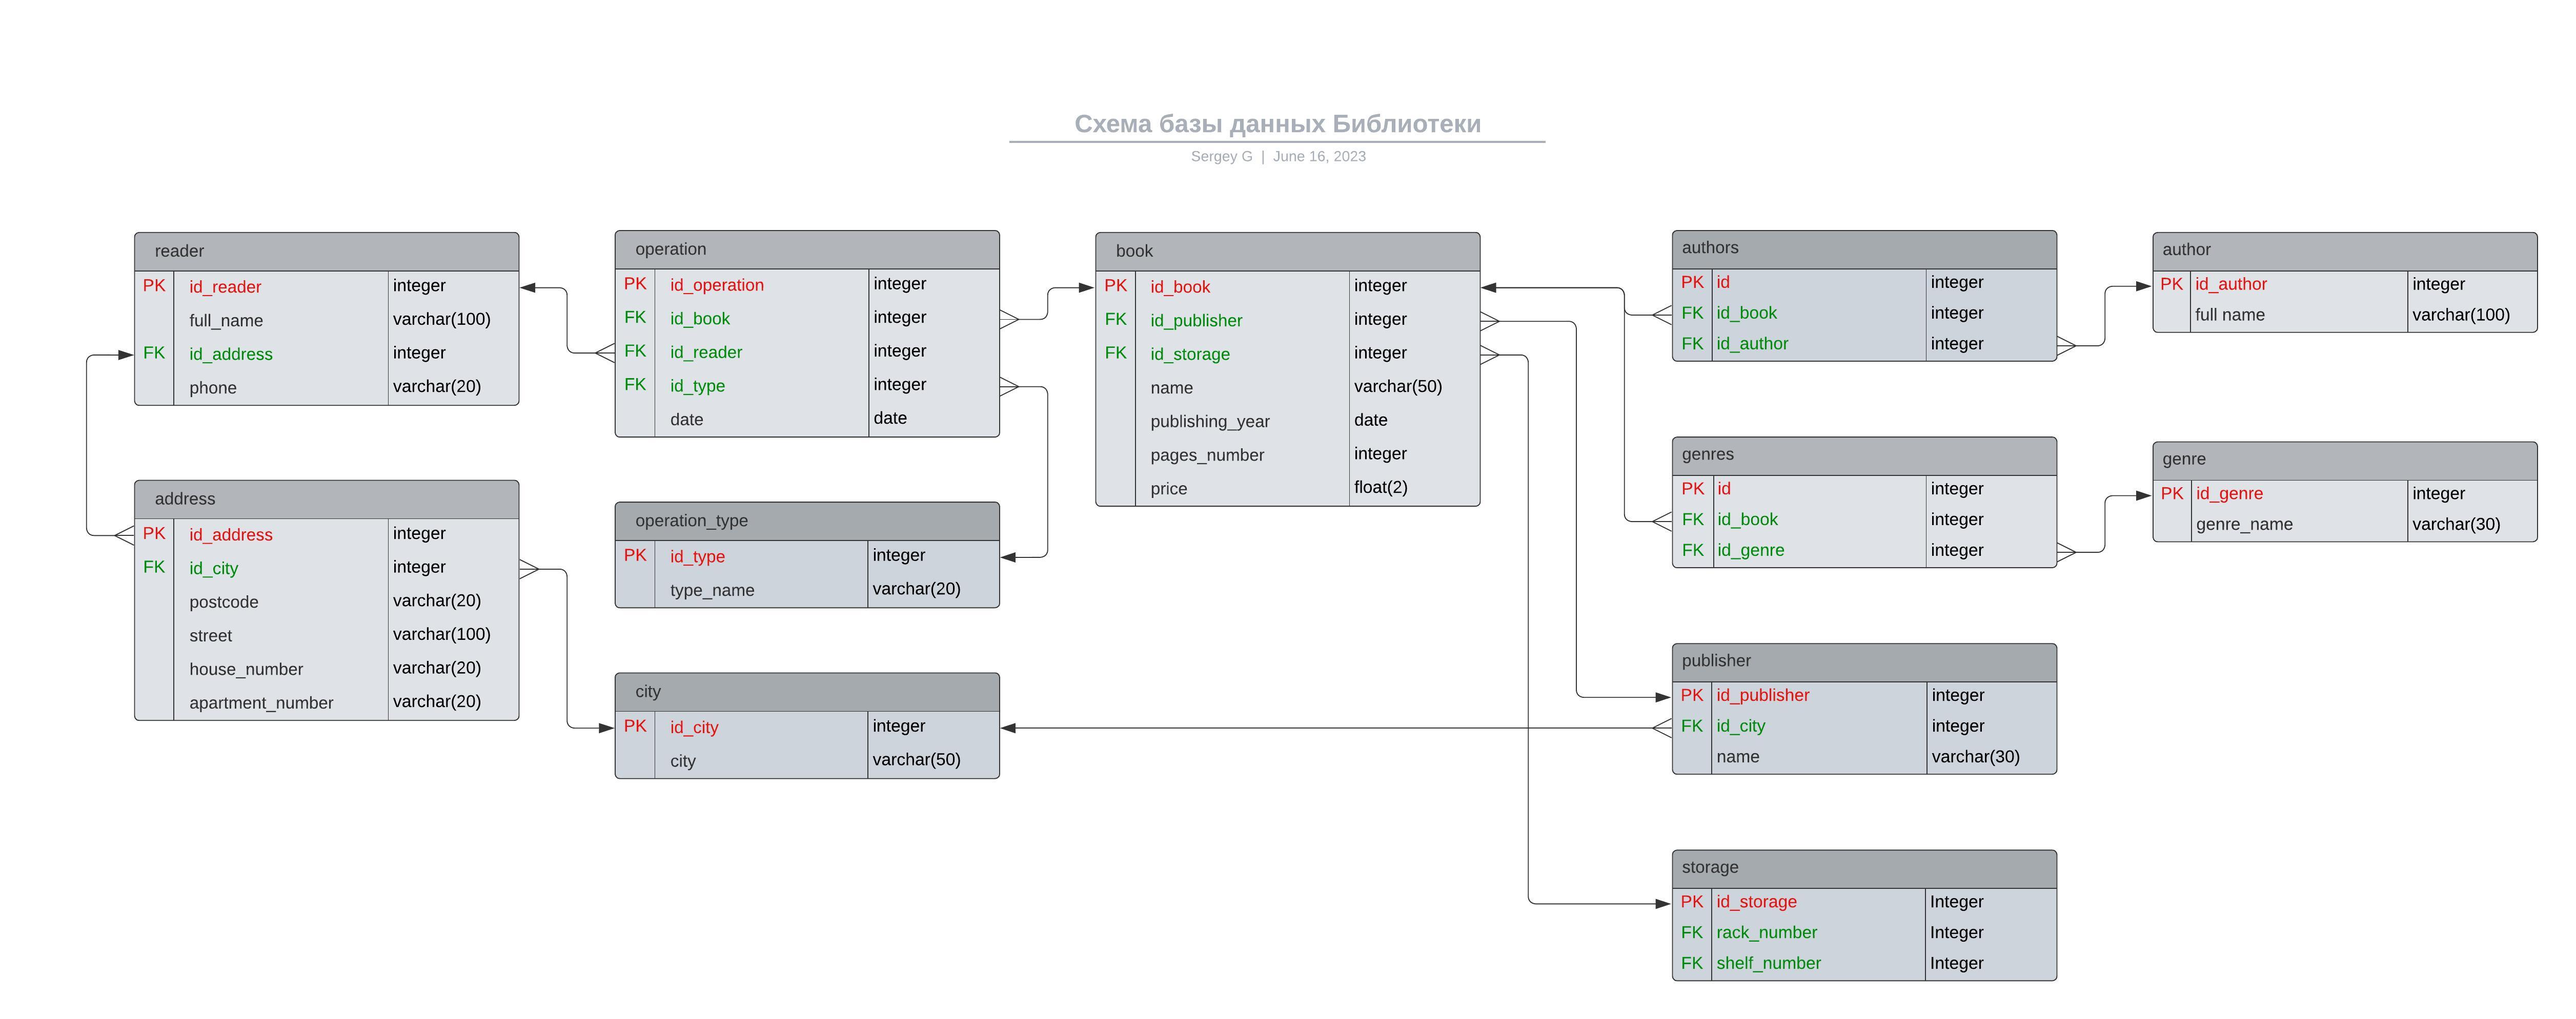
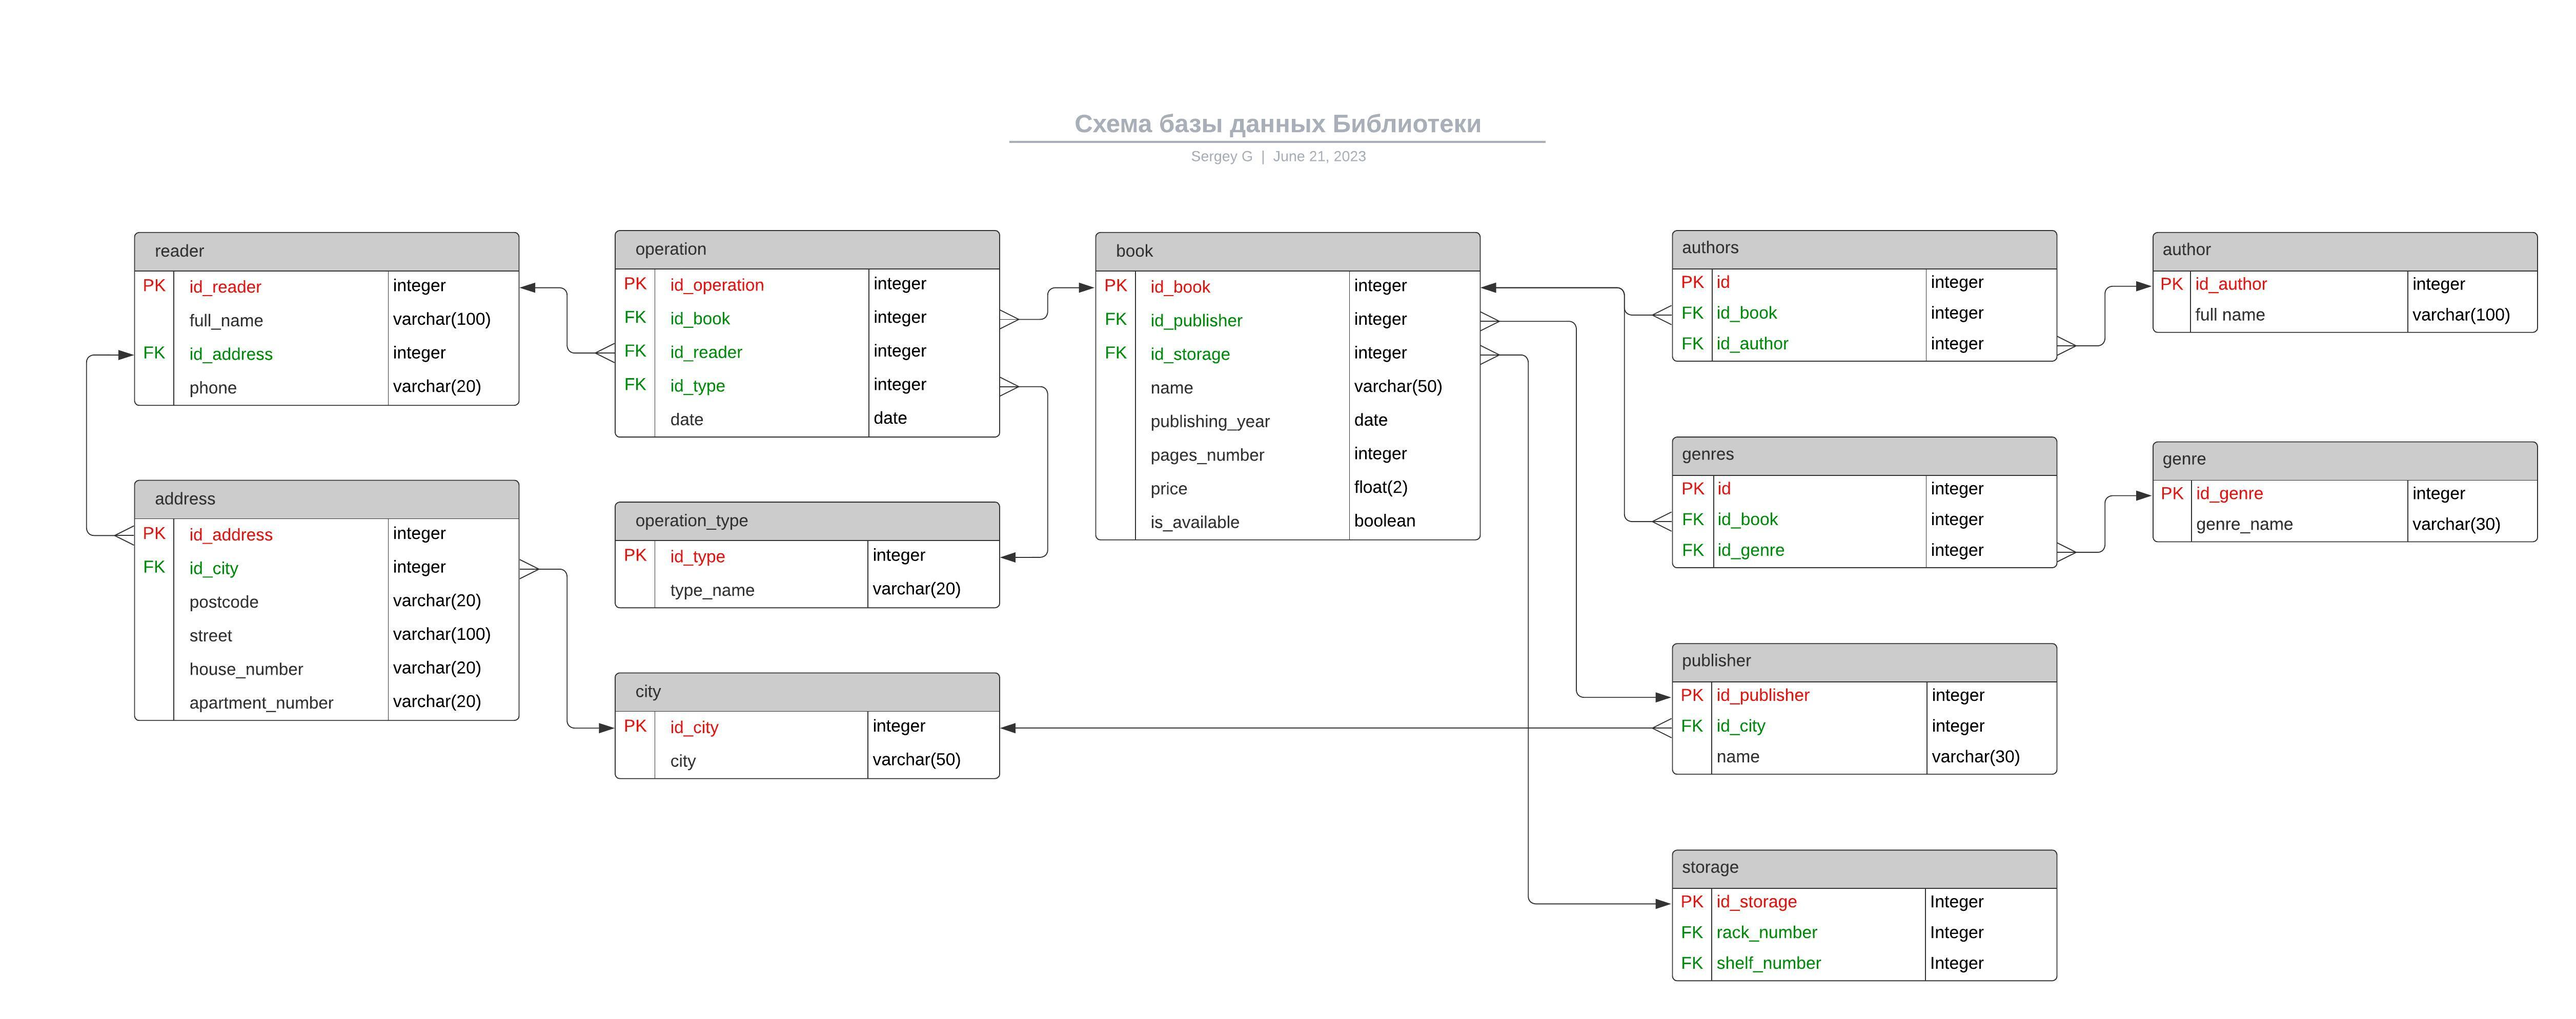
решение

diff --git a/README.md b/README.md
@@ -2,159 +2,64 @@
 
 Запуск: `docker-compose up`
 
-Запросы к БД:  
-1) Определить, сколько книг прочитал каждый читатель в текущем году. Вывести рейтинг читателей по убыванию:  
-```sql
-SELECT operation.id_reader, reader.full_name, count(operation.id_reader) AS rate FROM operation 
-INNER JOIN reader ON operation.id_reader = reader.id_reader
-WHERE operation.id_type = 2 
-AND operation.date > '2023-01-01' 
-AND operation.id_book IN (SELECT id_book FROM operation 
-		WHERE id_type = 1 
-		AND operation.date > '2023-01-01') 
-GROUP BY operation.id_reader, reader.full_name
-ORDER BY rate DESC
-```  
-2) Определить, сколько книг у читателей на руках на текущую дату:  
-```sql
-SELECT count(id_book) AS not_returned_books FROM (
-	SELECT id_book, id_reader FROM operation
-		WHERE id_type = 1
-	EXCEPT 
-	SELECT id_book, id_reader FROM operation
-		WHERE id_type = 2
-	GROUP BY id_book, id_reader
-) AS not_returned_books
-```  
-3) Определить читателей, у которых на руках определенная книга:  
-```sql
-SELECT  not_returned_books.id_reader, reader.full_name, not_returned_books.id_book, book.name FROM (
-	SELECT id_book, id_reader from operation
-		WHERE id_type = 1
-	EXCEPT 
-	SELECT id_book, id_reader FROM operation
-		WHERE id_type = 2
-	GROUP BY id_book, id_reader
-) AS not_returned_books
-INNER JOIN reader ON not_returned_books.id_reader = reader.id_reader
-INNER JOIN book  ON not_returned_books.id_book = book.id_book
-WHERE not_returned_books.id_book = 4
-``` 
-4) Определите, какие книги на руках читателей:  
-```sql
-SELECT book.name FROM (
-	SELECT id_book, id_reader FROM public.operation
-	WHERE id_type = 1
-	EXCEPT 
-	SELECT id_book, id_reader FROM public.operation
-	WHERE id_type = 2
-) AS not_returned_books
-INNER JOIN book on not_returned_books.id_book = book.id_book
-```  
-5) Вывести количество должников на текущую дату:  
-```sql
-SELECT count(id_book) AS not_returned_books FROM (
-	SELECT id_book, id_reader FROM public.operation
-	WHERE id_type = 1
-	EXCEPT 
-	SELECT id_book, id_reader FROM public.operation
-	WHERE id_type = 2
-) AS not_returned_books
-```  
-6) Книги какого издательства были самыми востребованными у читателей? Отсортируйте издательства по убыванию востребованности книг:
-```sql
-SELECT count(operation.id_book) AS rate, p.name, book.id_publisher FROM operation
-INNER JOIN book ON operation.id_book = book.id_book
-INNER JOIN public.publisher p ON p.id_publisher = book.id_publisher 
-WHERE id_type = 1 
-GROUP BY   p.name, book.id_publisher
-ORDER BY rate DESC 
-```  
-7) Определить самого издаваемого автора  
-```sql
-SELECT rate, id_author, full_name FROM (
-	SELECT count(authors.id_author) AS rate, authors.id_author, author.full_name FROM authors
-	INNER JOIN author ON author.id_author = authors.id_author
-	GROUP BY authors.id_author, author.full_name) ar
-WHERE rate = (SELECT max(rate) FROM (
-	SELECT count(id_author) AS rate, id_author FROM authors
-	GROUP BY id_author) ar2 )
-	
-	--Или можно с limit 1, учитывая что мы сортируем по возрастанию,
-	--самый издаваемый автор у нас будет на первой строке:
-	
-SELECT count(authors.id_author) AS rate, author.full_name, authors.id_author from authors
-INNER JOIN author ON authors.id_author = author.id_author
-GROUP BY authors.id_author, author.full_name
-ORDER BY rate DESC 
-LIMIT 1
-```
-8) Определить среднее количество прочитанных страниц читателем за день:  
-День, за который нужно посмотреть среднее кол-во прочитанных страниц записывается в  
-`where start_read.date <= '2023-02-15' and stop_read.date >= '2023-02-15'`
-вол-во страниц выводится в столбце `avr_page_per_day`  
-Пример: ![Схема БД "Библиотека""](2.3.8.png)  
+Задача:  
 
+
+ Доработать структуру БД «Библиотека» на предмет хранения дополнительной информации о книгах, которые были утеряны. Информация о потерянных книгах должна содержать:
+книга, которая была утеряна дата потери читатель, который потерял книгу.
+
+- Напишите sql запрос, который определяет, терял ли определенный читатель книги.
+
+- При потере книг количество доступных книг фонда меняется. Напишите sql запрос на обновление соответствующей информации.
+
+- Определить сумму потерянных книг по каждому кварталу в течение года.
+
+Дополнительная информация к заданию:  
+Книга считается на руках, если не указана дата возврата книги.  
+Должником является читатель, который не возвратил книгу в течение 2-х недель.  
+Книга считается прочитанной, если она была взята и сдана.  
+
+
+Решение:  
+В сущность `book` добавим поле `is_available` с типом данных *boolean* хранящую информацию о доступности книги.
+По умолчанию, у всех книг `is_available = true`.  
+У нас есть сущность `operation`, которая хранит операции с 
+книгами, в нее будем записывать потерю книги. Для этого нам в `operation_type` необходимо добавить тип операции 'Утрачена' с `id_type = 3`. 
+Все остальные задачи решаются запросами:  
+- Напишите sql запрос, который определяет, терял ли определенный читатель книги:
 ```sql
+SELECT * FROM operation
+WHERE id_reader = 1
+AND id_type = 3
+```  
+- При потере книг количество доступных книг фонда меняется. Напишите sql запрос на обновление соответствующей информации:
+```sql
+--обновляем `is_available` на `false` у книг, которые были утеряны:
+update book set is_available = false
+where id_book in (
+		select book.id_book from book
+		inner join operation on operation.id_book = book.id_book
+		where operation.id_type = 3
+		);
+--выбираем только доступные книги
+select * from public.book
+where book.is_available = true
+```  
+-Определить сумму потерянных книг по каждому кварталу в течение года:
+```sql
+--Сумма потерь в течении текущего года, and extract(year from date) = extract(year from now()),
+--еслу убрать строку, будут выведены данные за все время, вместо extract(year from now()) можно
+--посдтавить необходимый год.  
+
 select
-	start_read.date as start_read_day,
-	stop_read.date as stop_read_day,
-	start_read.id_reader, 
-	sum(start_read.pages_number),
-	sum((start_read.pages_number) / (case (stop_read.date - start_read.date)
-		when 0 then 1
-		else (stop_read.date - start_read.date)
-	end
-	)) as avr_page_per_day
-from
-(
-select o.id_book, o.id_reader, o.id_type, book.name, book.pages_number, date(o.date) from public.operation o 
-inner join book on book.id_book = o.id_book
-where o.id_reader = 1
-and id_type = 1
-) start_read
-inner join 
-(
-select o.id_book, o.id_reader, o.id_type, book.name, book.pages_number, date(o.date) from public.operation o
-inner join book on book.id_book = o.id_book
-where o.id_reader = 1
-and id_type = 2
-) stop_read
-on start_read.id_book = stop_read.id_book
-where start_read.date <= '2023-02-15' and stop_read.date >= '2023-02-15'
-group by stop_read.date, start_read.date, start_read.id_reader, start_read.pages_number
-```
-
-9) ~~Когда читатель взял и вернул книги и кол-во страниц в книгах~~  
-```sql
-select 
-	start_read.id_book, 
-	start_read.id_reader, 
-	start_read.name, 
-	start_read.pages_number, 
-	start_read.date as start_read,
-	stop_read.date as stop_read
-from
-(
-select o.id_book, o.id_reader, o.id_type, book.name, book.pages_number, date from public.operation o 
-inner join book on book.id_book = o.id_book
-where o.id_reader = 1
-and id_type = 1
-) start_read
-inner join 
-(
-select o.id_book, o.id_reader, o.id_type, book.name, book.pages_number, date from public.operation o
-inner join book on book.id_book = o.id_book
-where o.id_reader = 1
-and id_type = 2
-) stop_read
-on start_read.id_book = stop_read.id_book
-```
-10) ~~Рейтинг книг:~~
-```sql
-SELECT count(operation.id_book) AS rate, book.name, operation.id_book  FROM operation
-INNER JOIN book ON operation.id_book = book.id_book 
-WHERE id_type = 1 GROUP BY operation.id_book, book.name ORDER BY rate ASC
+	extract(year from date) as year,
+	extract(quarter from date) as quarter,
+	sum(book.price)
+from operation
+inner join book on book.id_book = operation.id_book 
+where id_type = 3
+and extract(year from date) = extract(year from now())
+group by quarter, year
 ```
 
 Схема БД: ![Схема БД "Библиотека""](theLibrary.jpeg)
